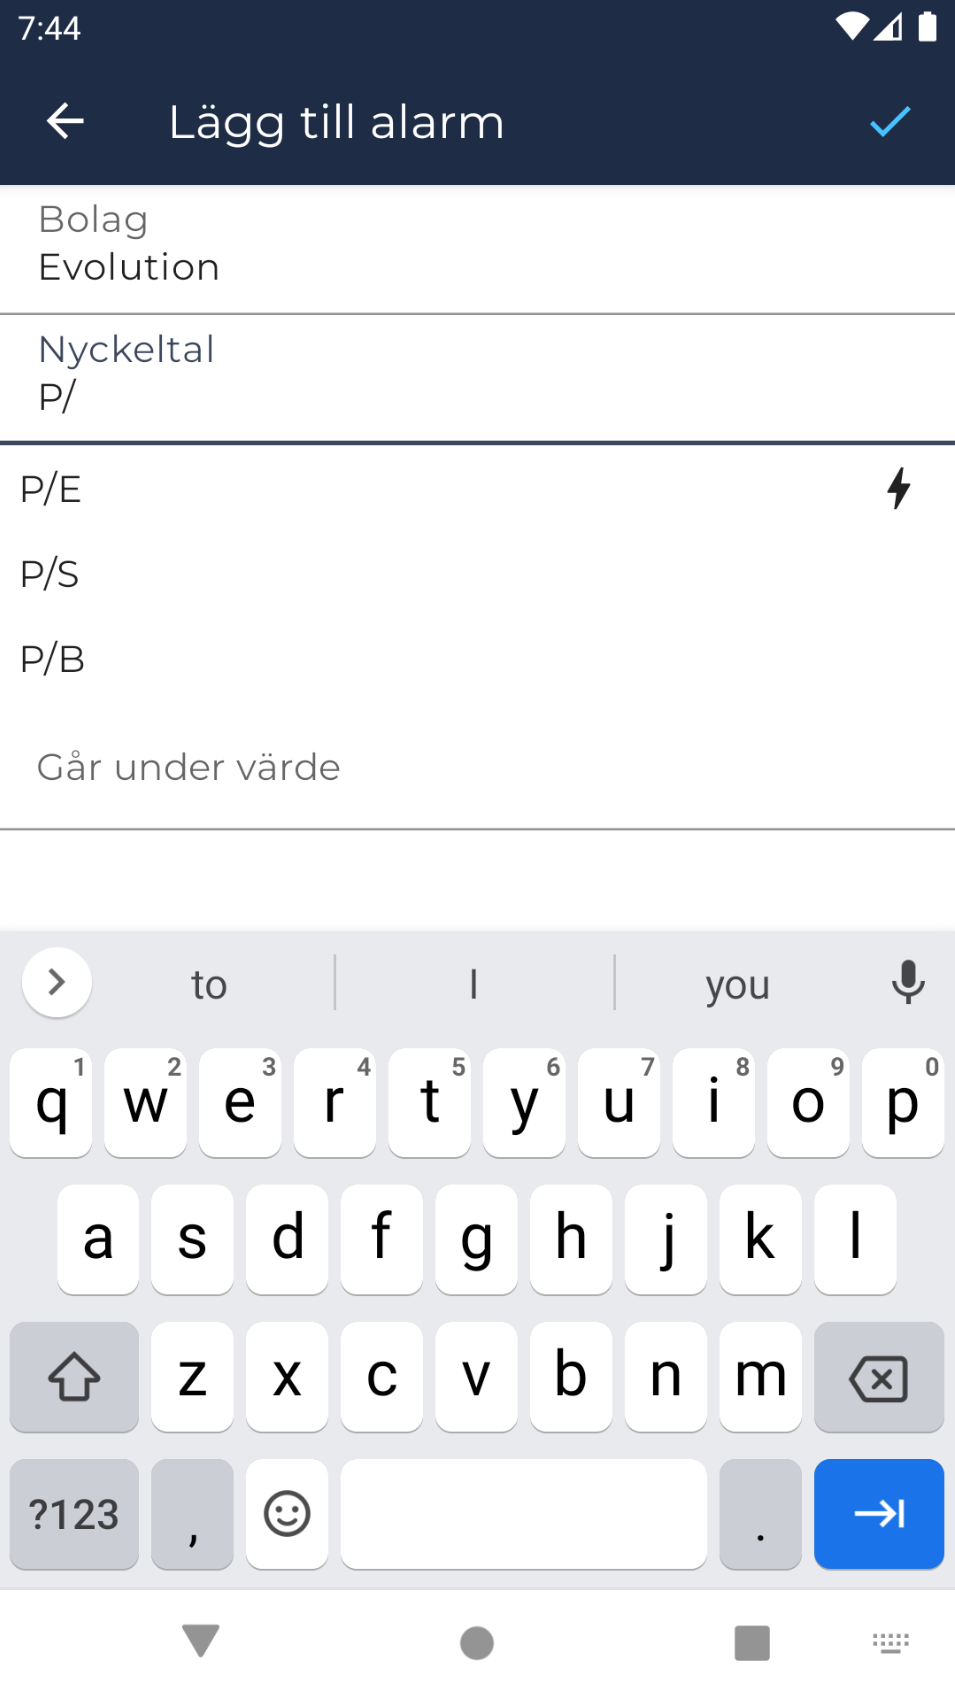
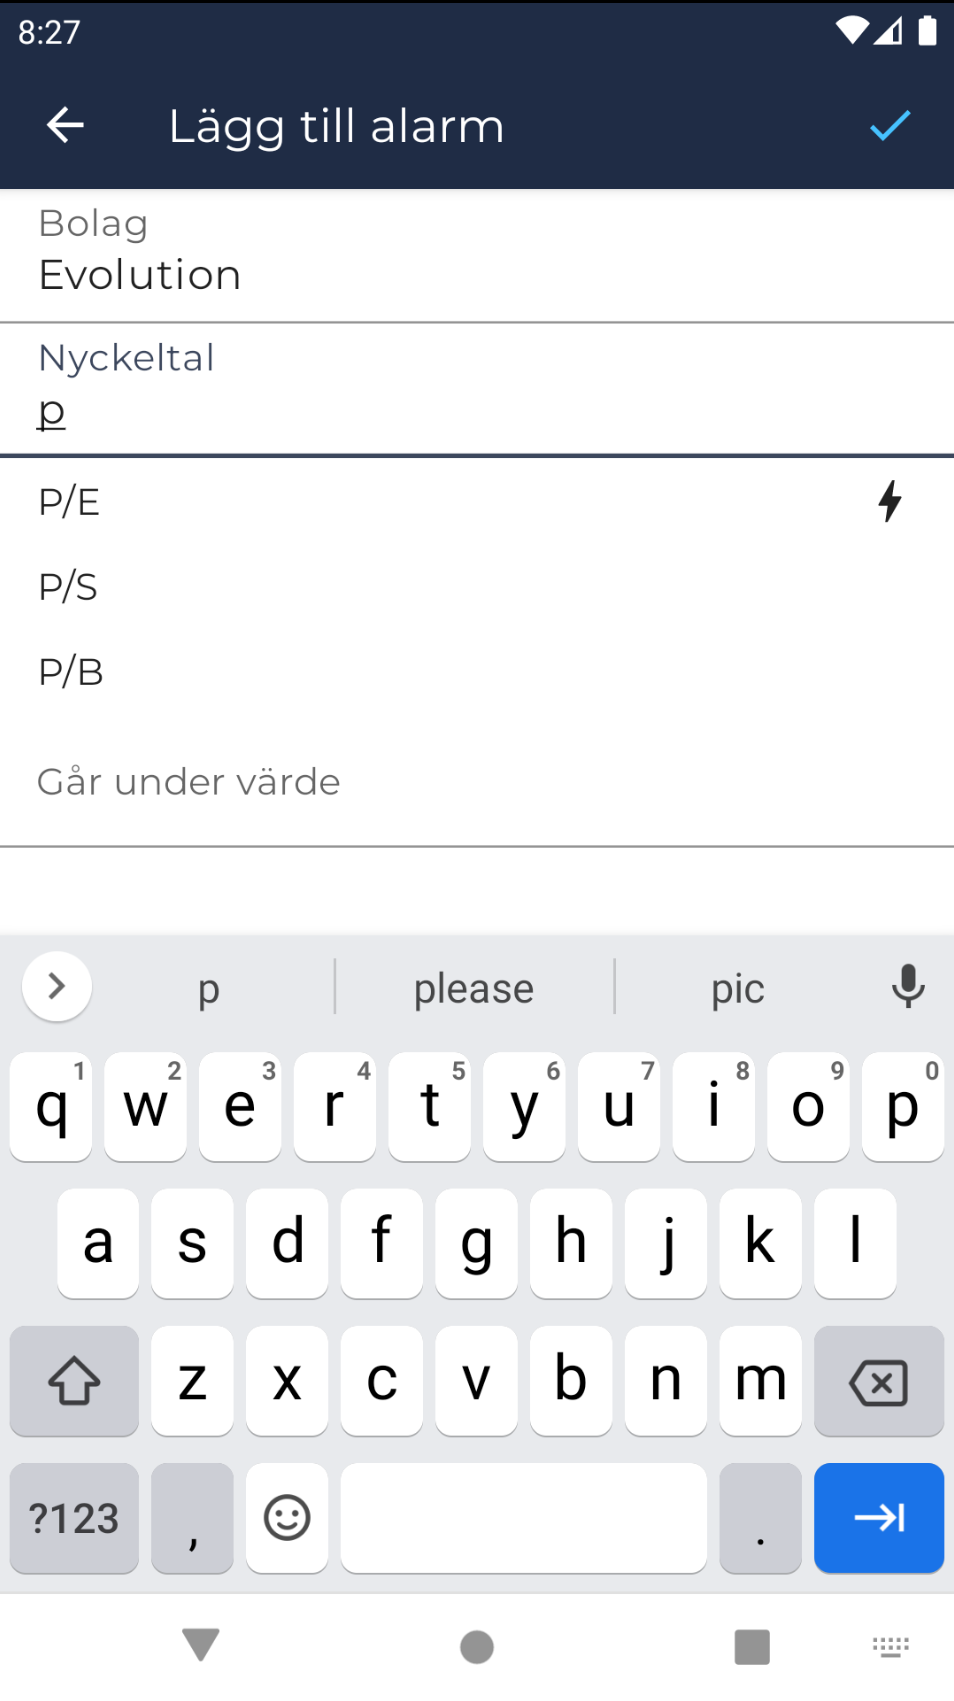
Aligned suggestions with textfield required padding. Looking to reduce this horizontal padding as soon as possible.

diff --git a/androidApp/src/main/java/com/github/tyngstast/borsdatavaluationalarmer/android/ui/common/InputField.kt b/androidApp/src/main/java/com/github/tyngstast/borsdatavaluationalarmer/android/ui/common/InputField.kt
@@ -3,6 +3,7 @@ package com.github.tyngstast.borsdatavaluationalarmer.android.ui.common
 import androidx.compose.foundation.layout.fillMaxWidth
 import androidx.compose.foundation.text.KeyboardActions
 import androidx.compose.foundation.text.KeyboardOptions
+import androidx.compose.material.LocalTextStyle
 import androidx.compose.material.MaterialTheme
 import androidx.compose.material.Text
 import androidx.compose.material.TextField
@@ -28,14 +29,15 @@ fun InputField(
     disabled: Boolean = false,
 ) {
     TextField(
-        value = value,
-        singleLine = true,
-        colors = if (MaterialTheme.colors.isLight) TextFieldDefaults.textFieldColors(backgroundColor = Color.White) else TextFieldDefaults.textFieldColors(),
-        enabled = !disabled,
         modifier = Modifier
             .fillMaxWidth()
             .onFocusChanged(onFocusChange)
             .focusRequester(focusRequester),
+        value = value,
+        singleLine = true,
+        colors = if (MaterialTheme.colors.isLight) TextFieldDefaults.textFieldColors(backgroundColor = Color.White) else TextFieldDefaults.textFieldColors(),
+        enabled = !disabled,
+        textStyle = LocalTextStyle.current.copy(fontSize = 18.sp),
         label = { Text(label, fontSize = 16.sp) },
         onValueChange = onValueChange,
         keyboardActions = keyboardActions,

diff --git a/androidApp/src/main/java/com/github/tyngstast/borsdatavaluationalarmer/android/ui/add/SuggestionInputField.kt b/androidApp/src/main/java/com/github/tyngstast/borsdatavaluationalarmer/android/ui/add/SuggestionInputField.kt
@@ -65,6 +65,7 @@ fun SuggestionInputField(
                 Box(
                     modifier = Modifier
                         .fillMaxWidth()
+                        .padding(horizontal = 16.dp)
                         .clickable {
                             onValueChange(item.name)
                             showSuggestions = false
@@ -76,12 +77,11 @@ fun SuggestionInputField(
                         verticalAlignment = Alignment.CenterVertically,
                         horizontalArrangement = Arrangement.SpaceBetween
                     ) {
-                        Text(text = item.name, modifier = Modifier.padding(8.dp))
+                        Text(text = item.name, modifier = Modifier.padding(vertical = 8.dp))
                         if (item is KpiItem && item.fluent) {
                             Icon(
                                 Icons.Default.Bolt,
-                                contentDescription = "Fluent",
-                                modifier = Modifier.padding(horizontal = 12.dp)
+                                contentDescription = "Fluent"
                             )
                         }
                     }
